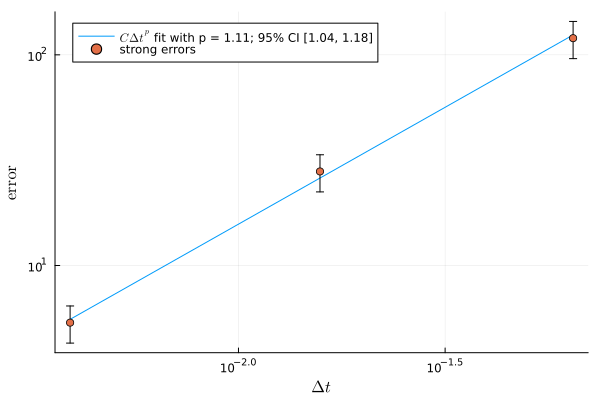
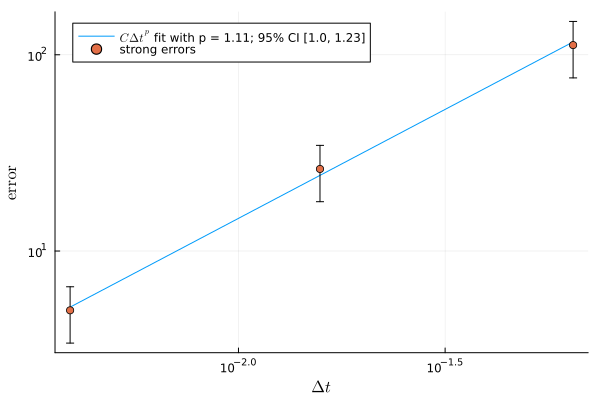
params

diff --git a/docs/src/examples/09-fisherkpp.md b/docs/src/examples/09-fisherkpp.md
@@ -338,7 +338,7 @@ nothing
 The number of simulations for the Monte-Carlo estimate of the rate of strong convergence
 
 ````@example 09-fisherkpp
-m = 100
+m = 40
 ````
 
 We then add some information about the simulation:
